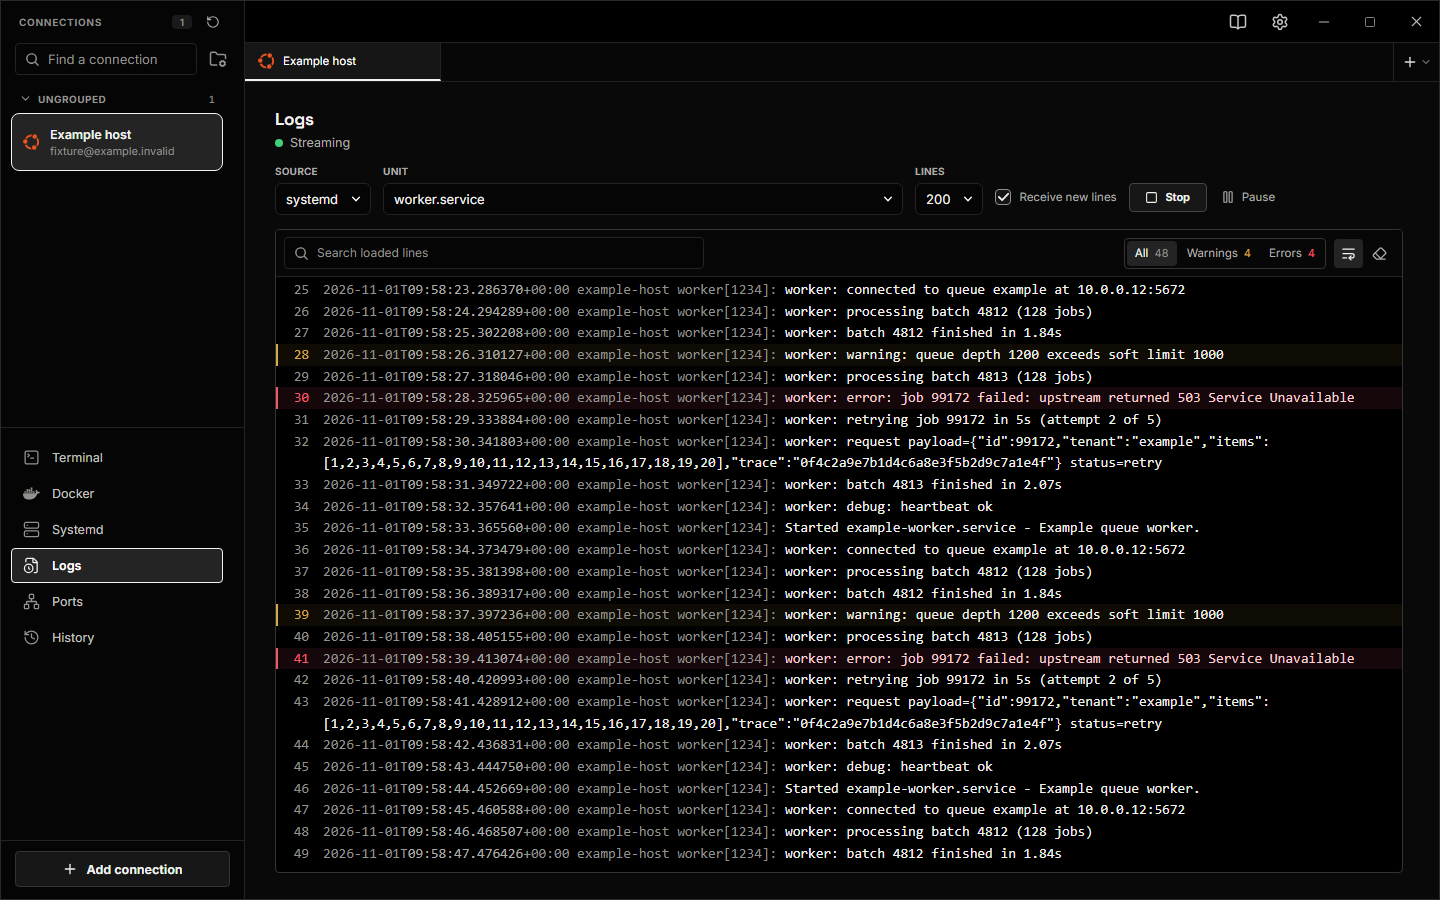
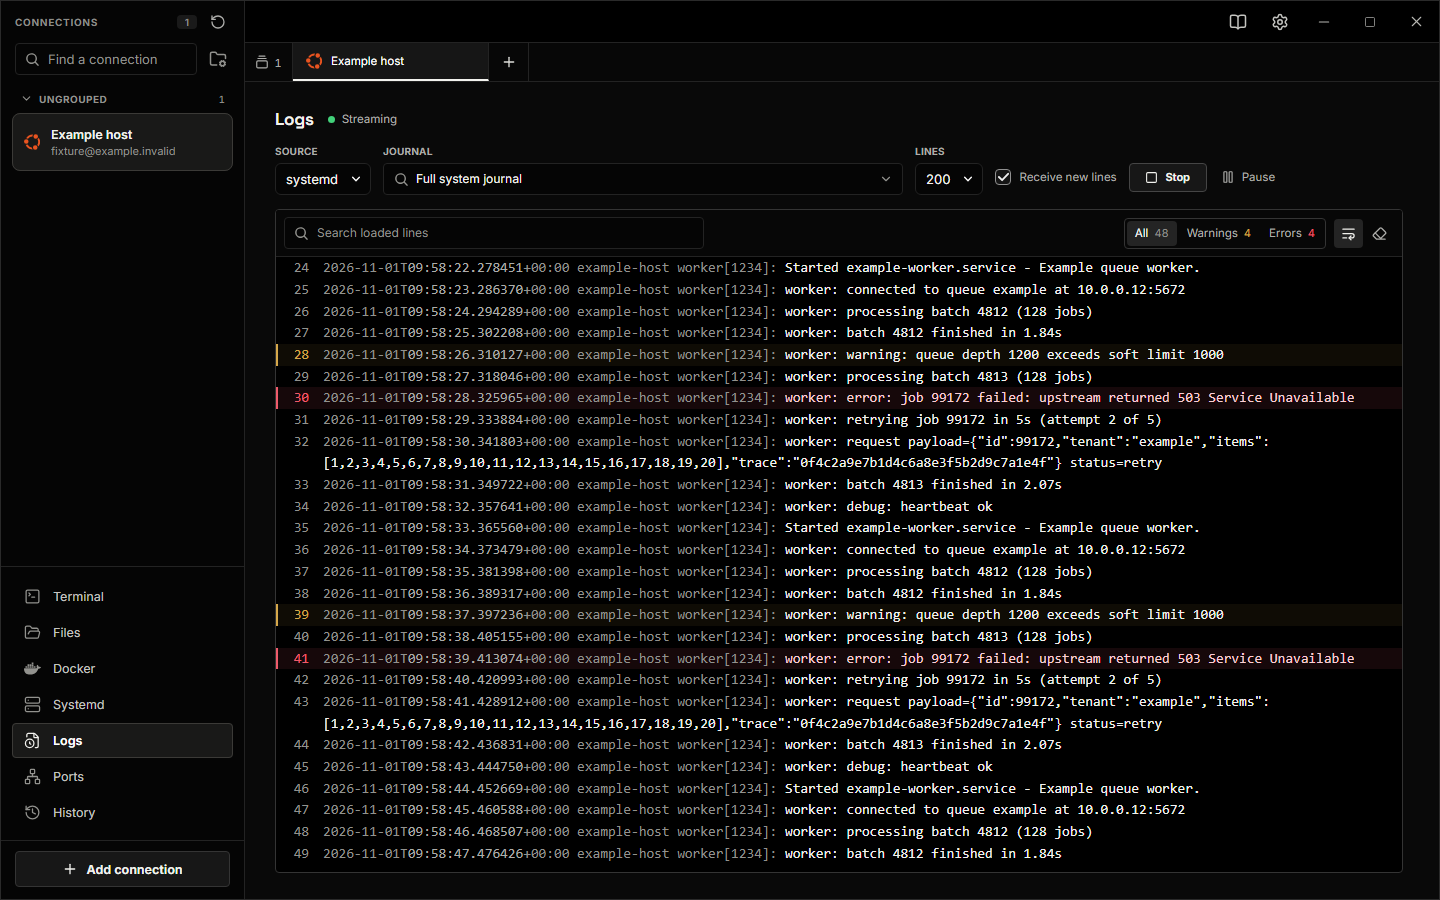
Refine log picker styling and refresh documentation

diff --git a/src/pages/LogsPane.tsx b/src/pages/LogsPane.tsx
@@ -697,6 +697,12 @@ export function LogsPane({
     sourceId,
   ]);
   const selectedLabel = sourceOptions.find((source) => source.id === sourceId)?.label ?? sourceId;
+  const sourceDescription =
+    sourceType === "systemd" && sourceId === ALL_JOURNAL
+      ? macosHost
+        ? "the unified log"
+        : "the full system journal"
+      : selectedLabel;
   const dockerPermissionError =
     !windowsHost &&
     !macosHost &&
@@ -999,9 +1005,9 @@ export function LogsPane({
             ) : (
               <p>
                 {streaming
-                  ? `Waiting for output from ${selectedLabel}…`
+                  ? `Waiting for output from ${sourceDescription}…`
                   : sourceId
-                    ? `Start reads the last ${tail} lines of ${selectedLabel}${follow ? ", then new lines as they arrive" : ""}.`
+                    ? `Start reads the last ${tail} lines of ${sourceDescription}${follow ? ", then new lines as they arrive" : ""}.`
                     : `Choose a ${sourceNoun} to read its logs.`}
               </p>
             )}

diff --git a/src/components/LogSourcePicker.tsx b/src/components/LogSourcePicker.tsx
@@ -93,7 +93,7 @@ export function LogSourcePicker({
   useEffect(() => {
     if (!open) return;
     const realign = (event: Event) => {
-      if (event.target instanceof Node && popup.current?.contains(event.target)) return;
+      if (event.target instanceof Element && !event.target.contains(field.current)) return;
       show();
     };
     window.addEventListener("resize", close);

diff --git a/src/styles/features/logs.css b/src/styles/features/logs.css
@@ -46,7 +46,19 @@
 }
 
 .log-source-field input {
+  color: var(--text);
   text-overflow: ellipsis;
+}
+
+.log-source-field button {
+  border: 0;
+  border-radius: var(--radius-sm);
+  background: transparent;
+  padding: 0;
+}
+
+.log-source-field button:hover {
+  background: var(--fill-hover);
 }
 
 .log-source-field button[aria-expanded="true"] svg {
